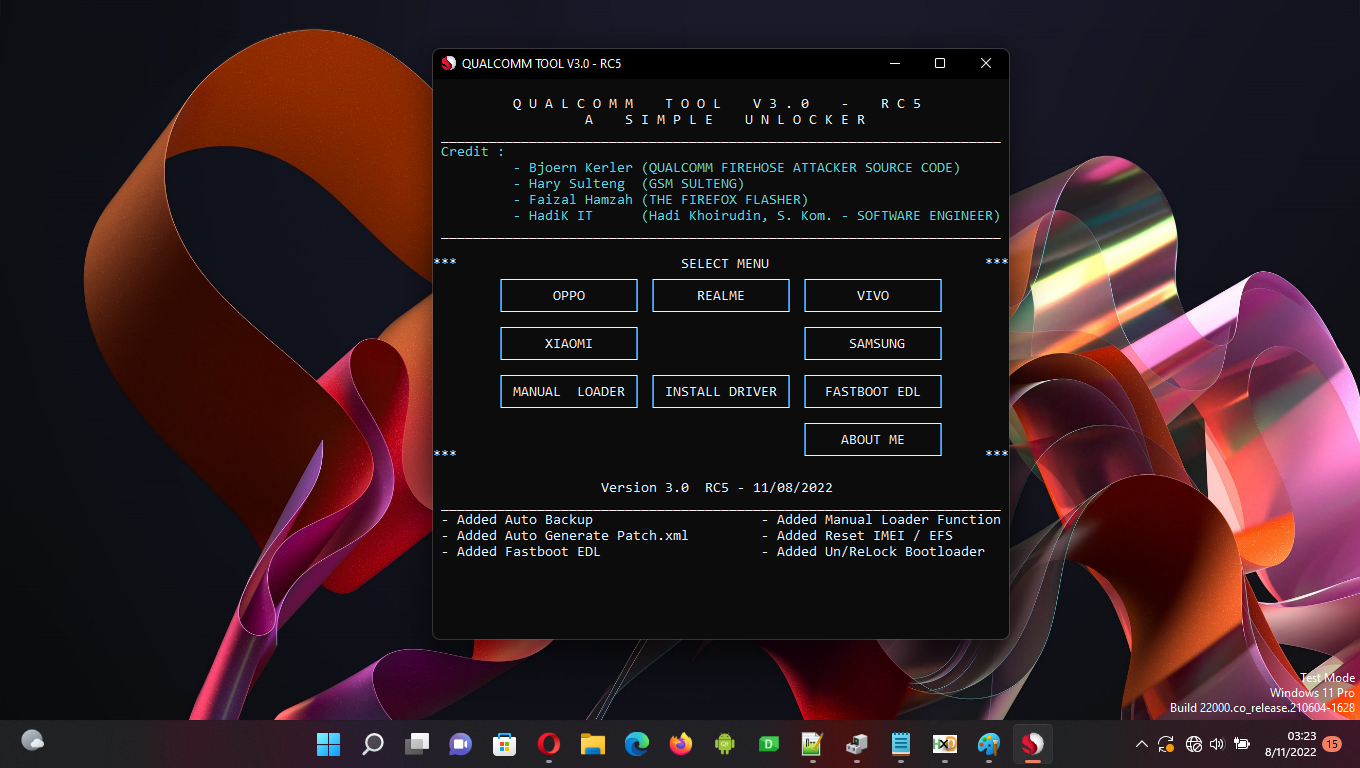
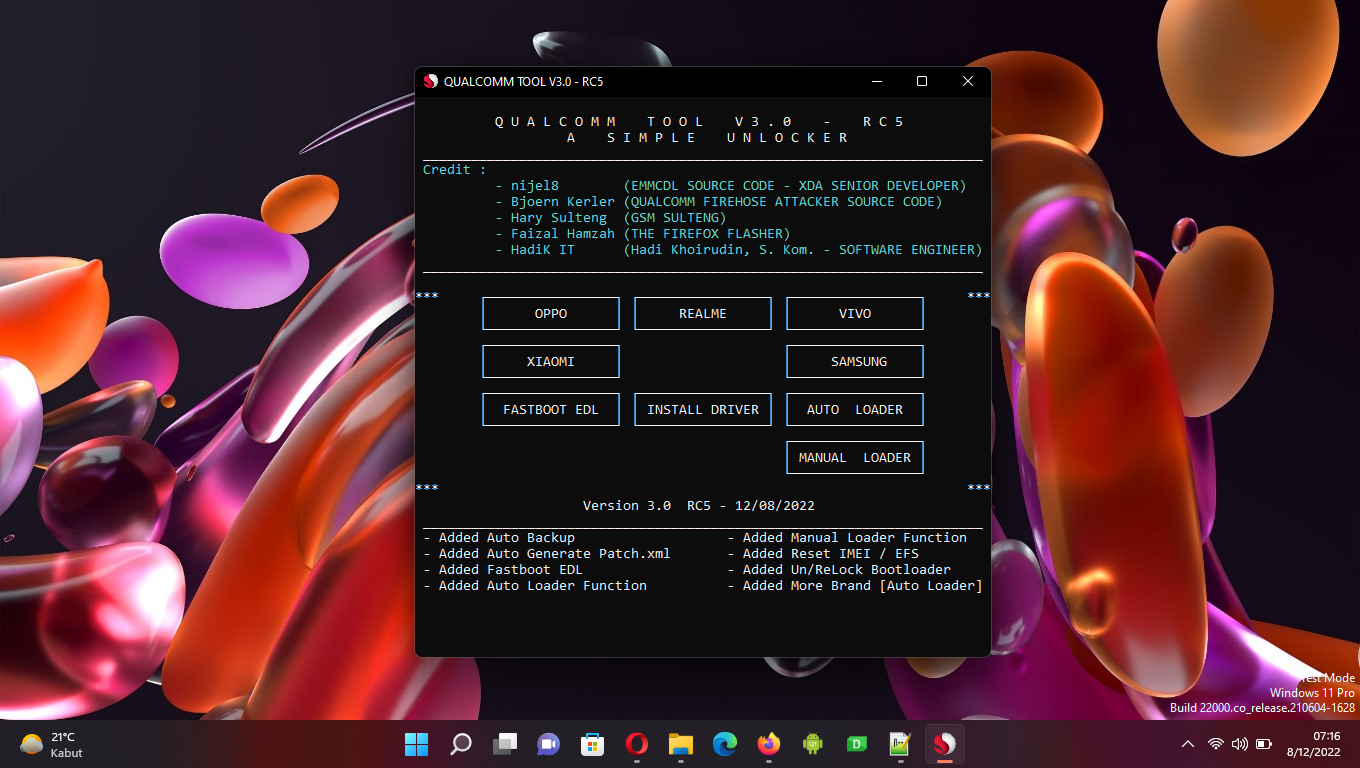
V3.0 RC5

diff --git a/README.md b/README.md
@@ -1,7 +1,7 @@
 # Qualcomm-Tool
 For educational purposes, learn how a batch script can handle emmcdl process.
 
-[![image-2022-08-11-034516441.png](https://i.postimg.cc/rppvdfDk/image-2022-08-11-034516441.png)](https://postimg.cc/fV6Hpj72) [![image-2022-08-11-034814046.png](https://i.postimg.cc/J7JZVmPf/image-2022-08-11-034814046.png)](https://postimg.cc/mhLt7xxj)
+[![image-2022-08-12-071751009.png](https://i.postimg.cc/Dfb5WbKV/image-2022-08-12-071751009.png)](https://postimg.cc/ThfnF1wQ)
 
 ## Recent supported list :
 
@@ -157,4 +157,40 @@ get it on YouTube at HadiK IT Channel.
 ```
 + Added new autogenerate patch function
 + Fix some bugs
++ Added Some Brand for Auto Loader Function
+	AMAZON
+	ASUS
+	BLACKBERRY
+	COOLPAD
+	FANCYMAKER
+	FOXCONN
+	GIONEE
+	HISENSE -> end of pg 1
+	HMD
+	HUAQIN
+	HUAWEI
+	LENOVO
+	LETV
+	LG
+	LONGCHEER -> end of pg 2
+	LYF
+	MEIZU
+	MICROMAX
+	MICROSOFT
+	MOTOROLA
+	NOKIA -> end of pg 3
+	ONEPLUS
+	OPPO
+	SAMSUNG
+	SHARP
+	SMARTISAN
+	SONY
+	TCL -> end of pg 4
+	TPLINK
+	VIVO
+	WINGTECH
+	XIAOMI
+	YULONG
+	ZTE
+	OTHER -> end of pg 4
 ```
